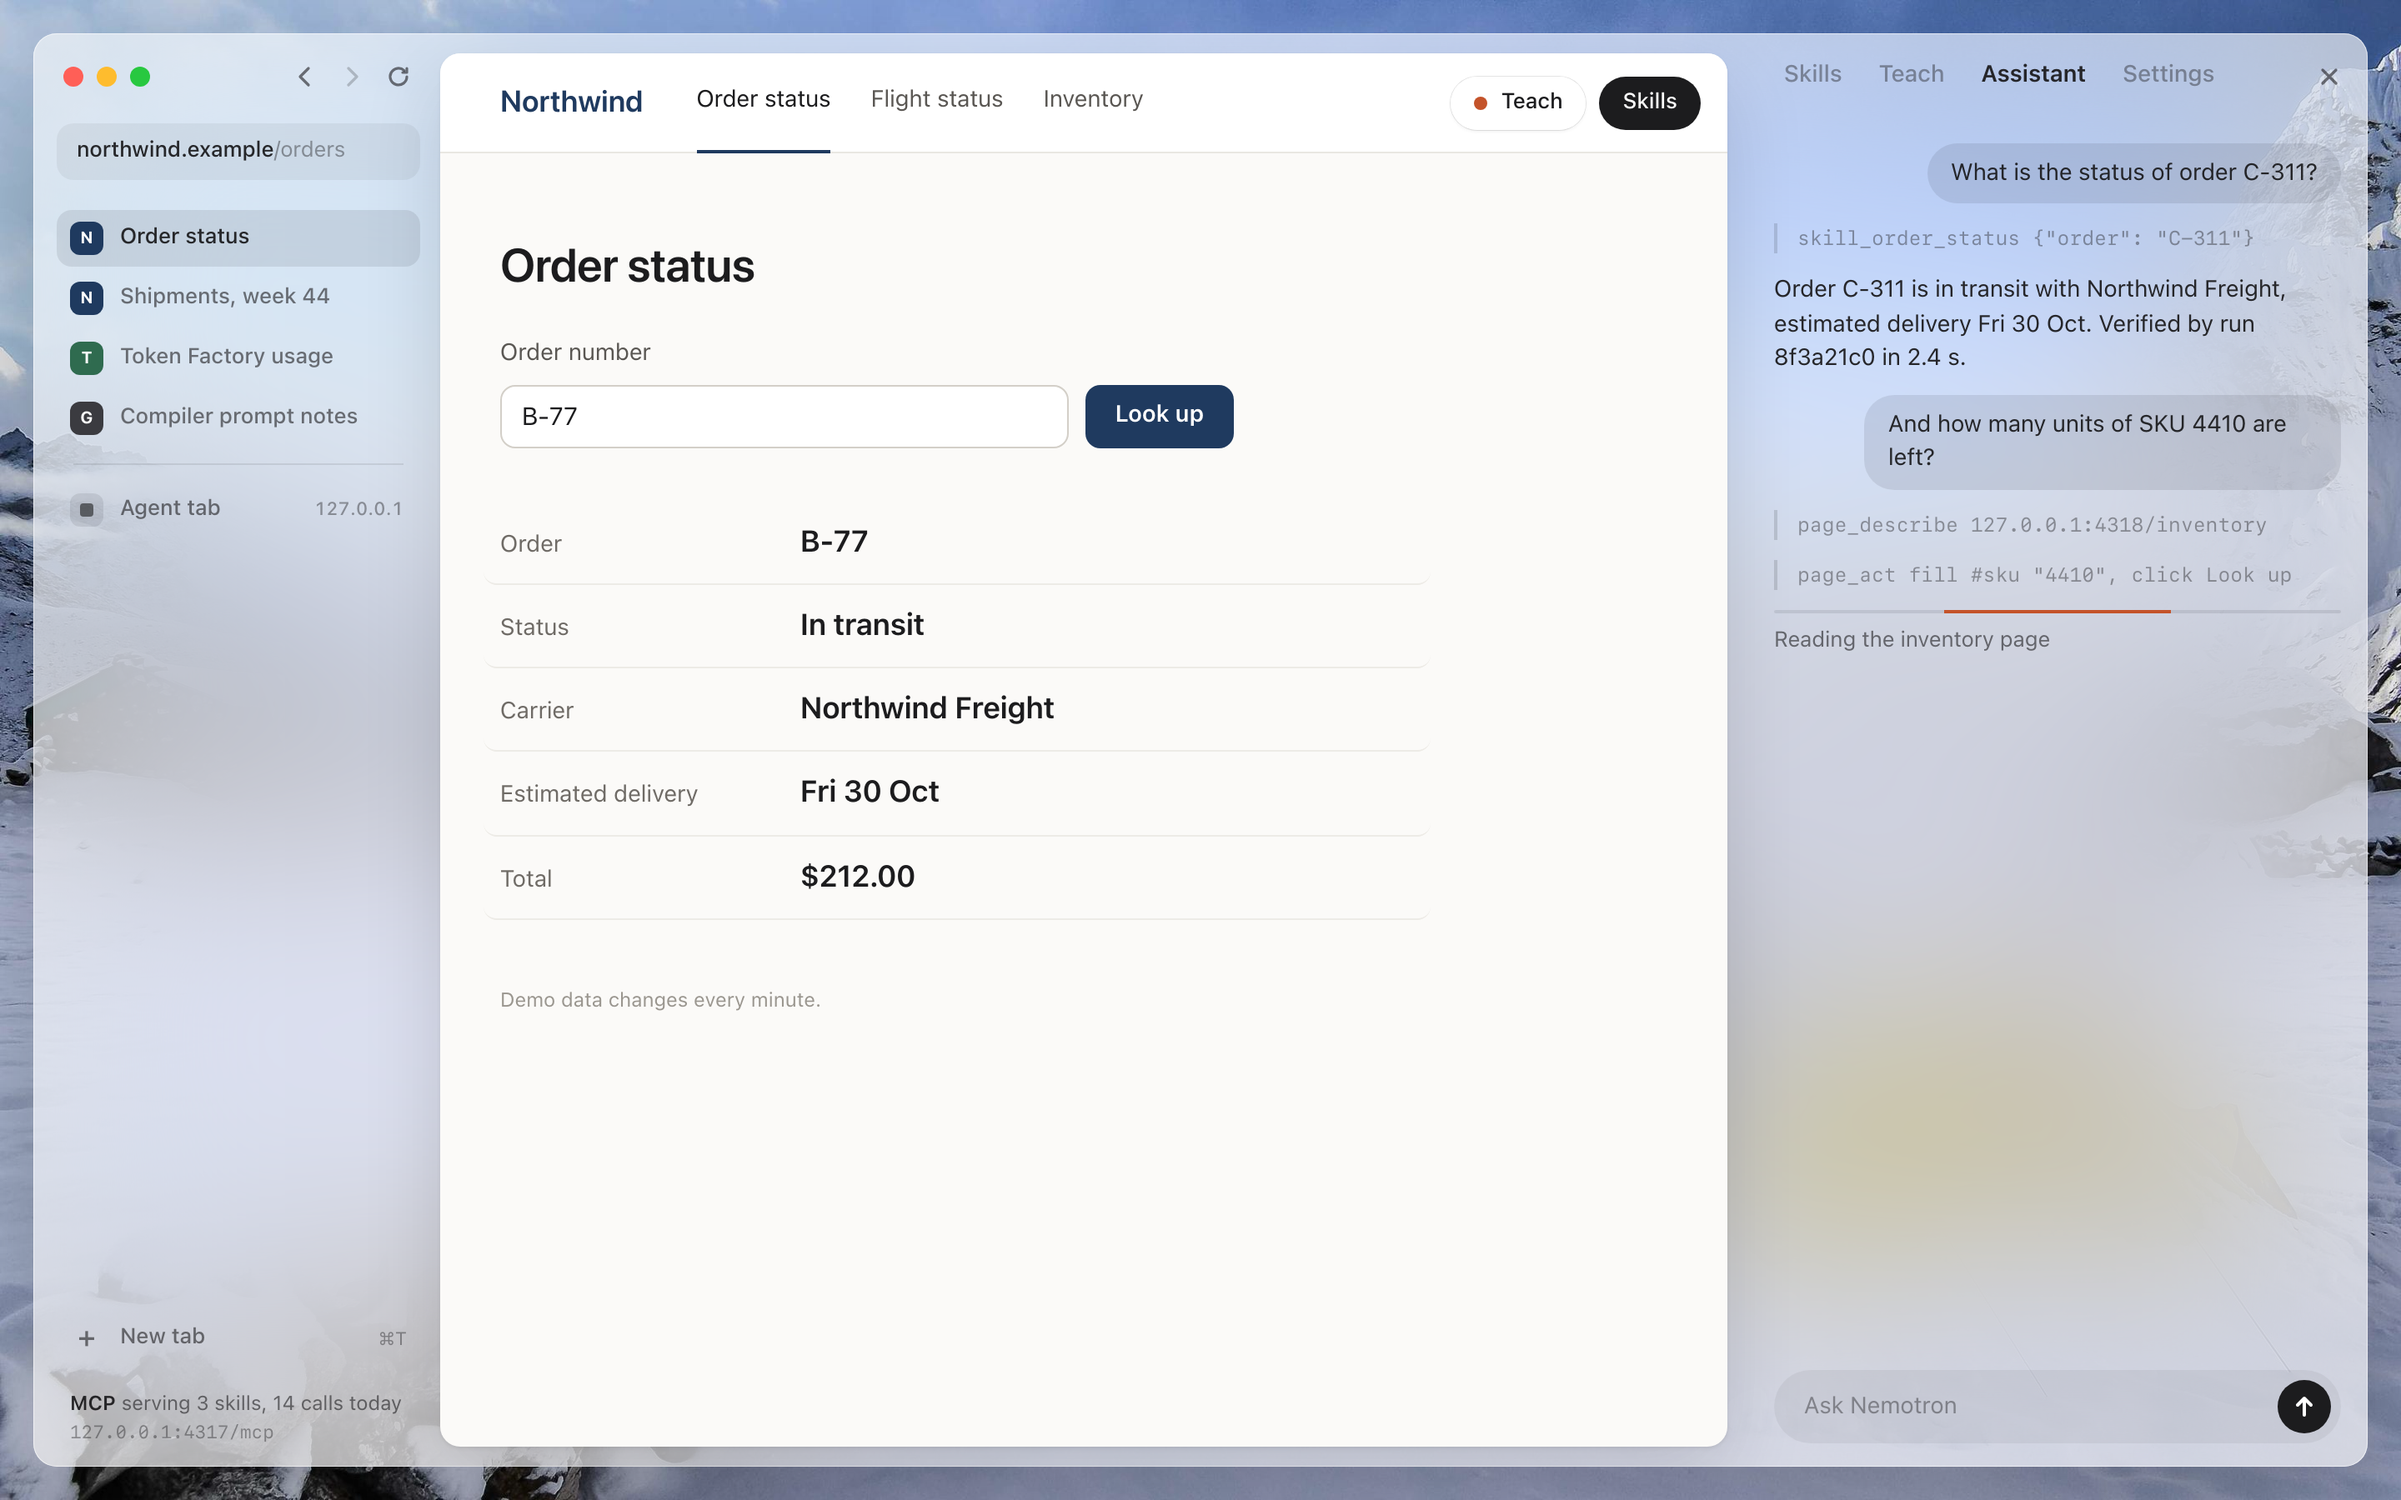
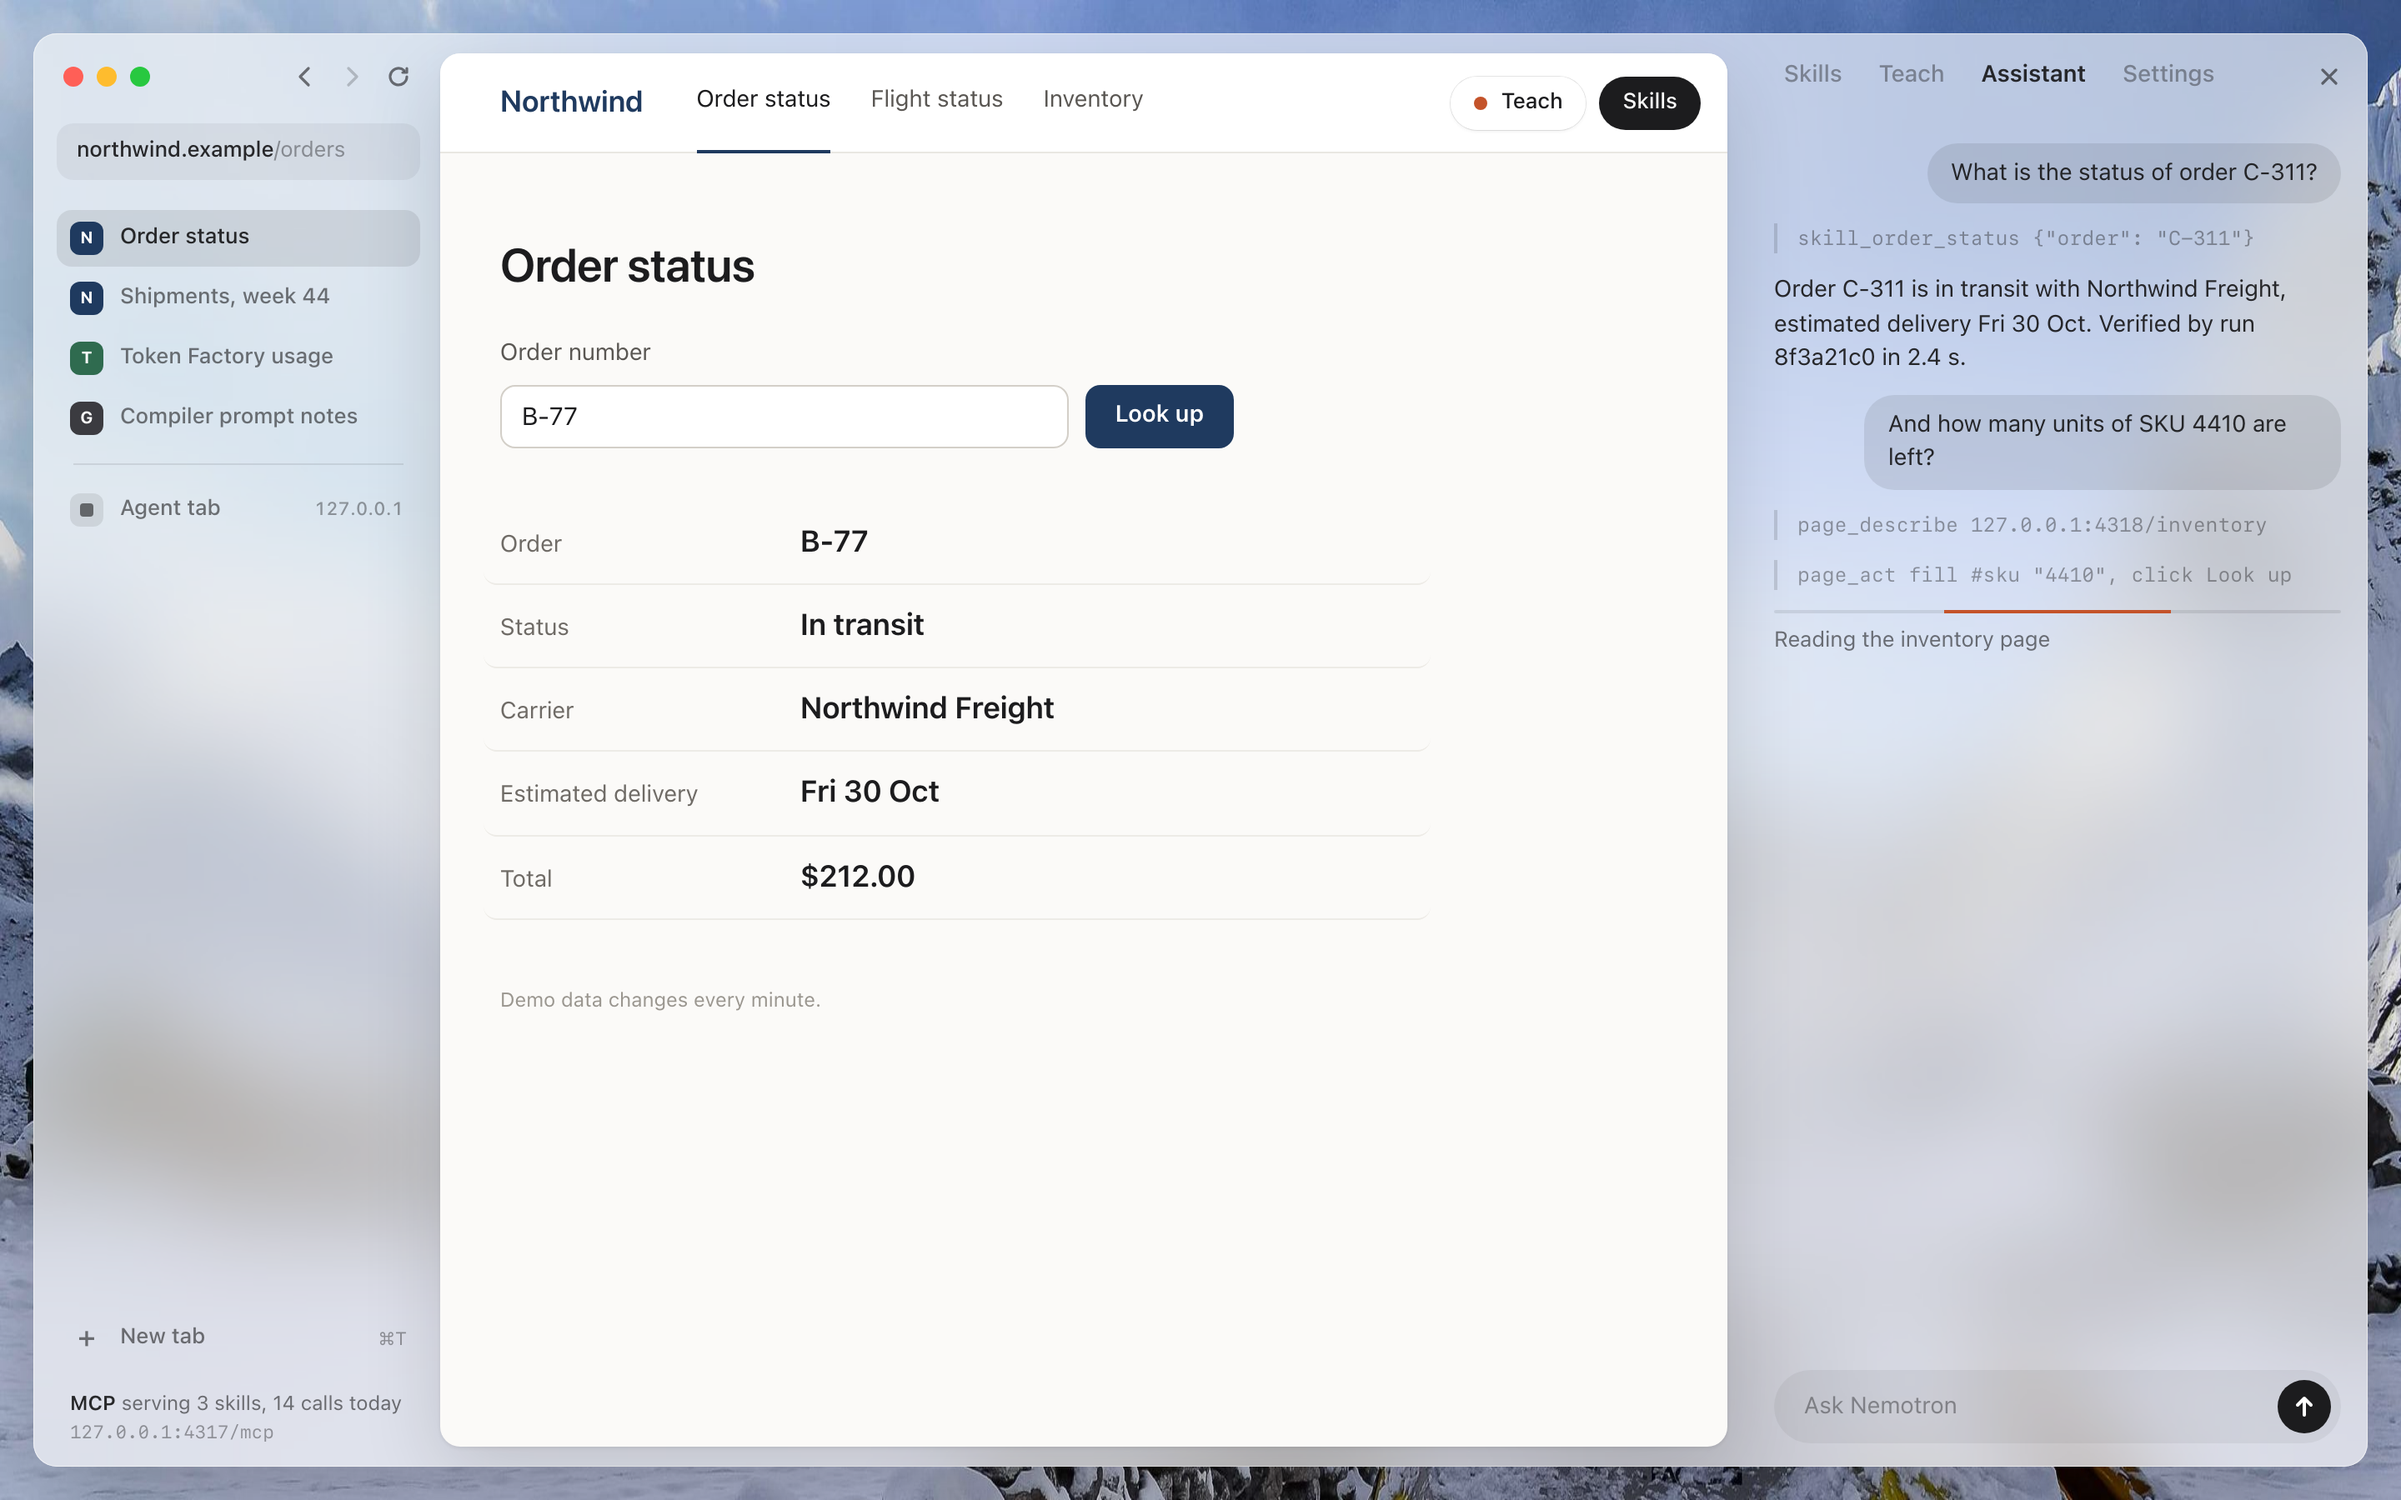
design(clear-desk): pre-blurred wallpaper glass, crop the wallpaper so no warm patch sits under the panel

diff --git a/design/concepts/clear-desk/styles.css b/design/concepts/clear-desk/styles.css
@@ -11,7 +11,7 @@
 
 html[data-theme="dark"] {
   color-scheme: dark;
-  --tint: rgba(24, 24, 28, 0.58);
+  --tint: rgba(24, 24, 28, 0.64);
   --text: rgba(255, 255, 255, 0.92);
   --text-2: rgba(255, 255, 255, 0.60);
   --text-3: rgba(255, 255, 255, 0.40);
@@ -32,7 +32,7 @@ html[data-theme="dark"] {
 
 html[data-theme="light"] {
   color-scheme: light;
-  --tint: rgba(250, 249, 246, 0.64);
+  --tint: rgba(250, 249, 246, 0.66);
   --text: rgba(28, 28, 30, 0.94);
   --text-2: rgba(28, 28, 30, 0.60);
   --text-3: rgba(28, 28, 30, 0.42);
@@ -74,16 +74,17 @@ code, .mono { font-family: var(--mono); }
 /* Desk */
 .desk {
   position: relative; width: 1440px; height: 900px; padding: 20px; overflow: hidden;
-  background: #46506a url("wallpaper.jpg") 50% 30% / cover no-repeat;
+  background: #46506a url("wallpaper.jpg") 0 0 / 1440px 1350px no-repeat;
 }
 .window {
   position: relative; z-index: 1; width: 1400px; height: 860px;
   display: grid; grid-template-columns: 244px 1fr; grid-template-areas: "sidebar stage";
   border-radius: 14px; overflow: hidden;
-  background: var(--tint);
-  -webkit-backdrop-filter: var(--glass); backdrop-filter: var(--glass);
+  background: url("wallpaper-blur.jpg") 0 0 / 1440px 900px fixed no-repeat;
   box-shadow: var(--window-shadow);
 }
+.window::before { content: ""; position: absolute; inset: 0; background: var(--tint); }
+.window > * { position: relative; }
 html:not([data-state="browse"]) .window { grid-template-columns: 244px 1fr 372px; grid-template-areas: "sidebar stage panel"; }
 
 /* Sidebar */

diff --git a/design/concepts/clear-desk/DESIGN.md b/design/concepts/clear-desk/DESIGN.md
@@ -61,7 +61,8 @@ Panel 372 wide, padding 16. Northwind gutter 36, measure 620.
 Radii. Window 14. Page card 12. Skill group 12. Inputs and address 10. Rows and icon buttons 9 and 7. Favicons 6. Code 6.
 Capsules (buttons, pills, suggestion, composer) fully round.
 
-Materials. Window: one `backdrop-filter: blur(60px) saturate(1.8)` under the tint; `0.5px` inner white ring and a 30/80 shadow
+Materials. Window: the glass is the wallpaper blurred (Gaussian 28 px, saturation 1.3; shipped as `wallpaper-blur.jpg` so the
+prototype renders identically in headless Chromium, which skipped `backdrop-filter` on the full-window sheet) under the tint; `0.5px` inner white ring and a 30/80 shadow
 standing in for the OS window shadow. Page card shadow `0 1px 2px` + `0 16px 48px` black 35% (dark) or 14% (light).
 Action pills: white 78% with `blur(24px) saturate(1.6)` and a 0.5 px ring. Suggestion capsule: `--bar` with the same blur.
 
